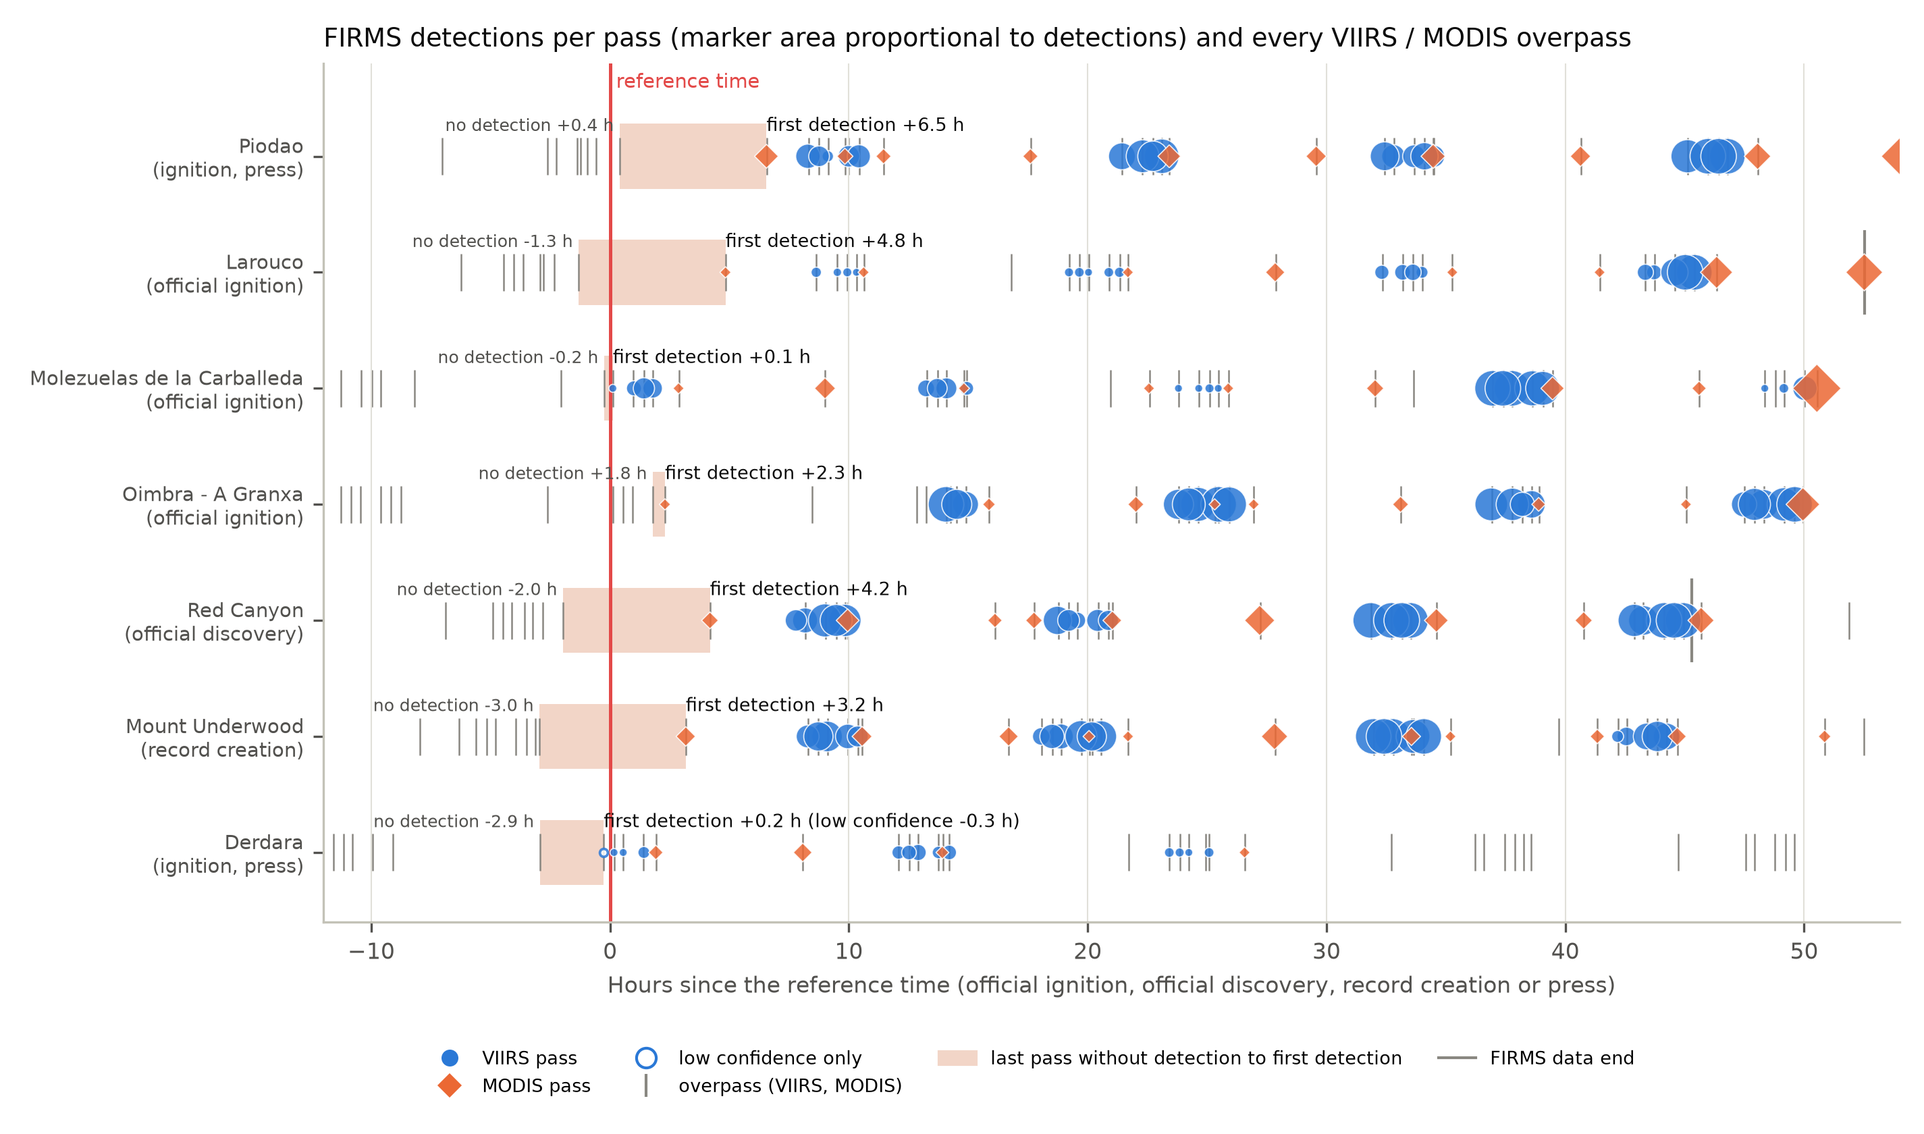
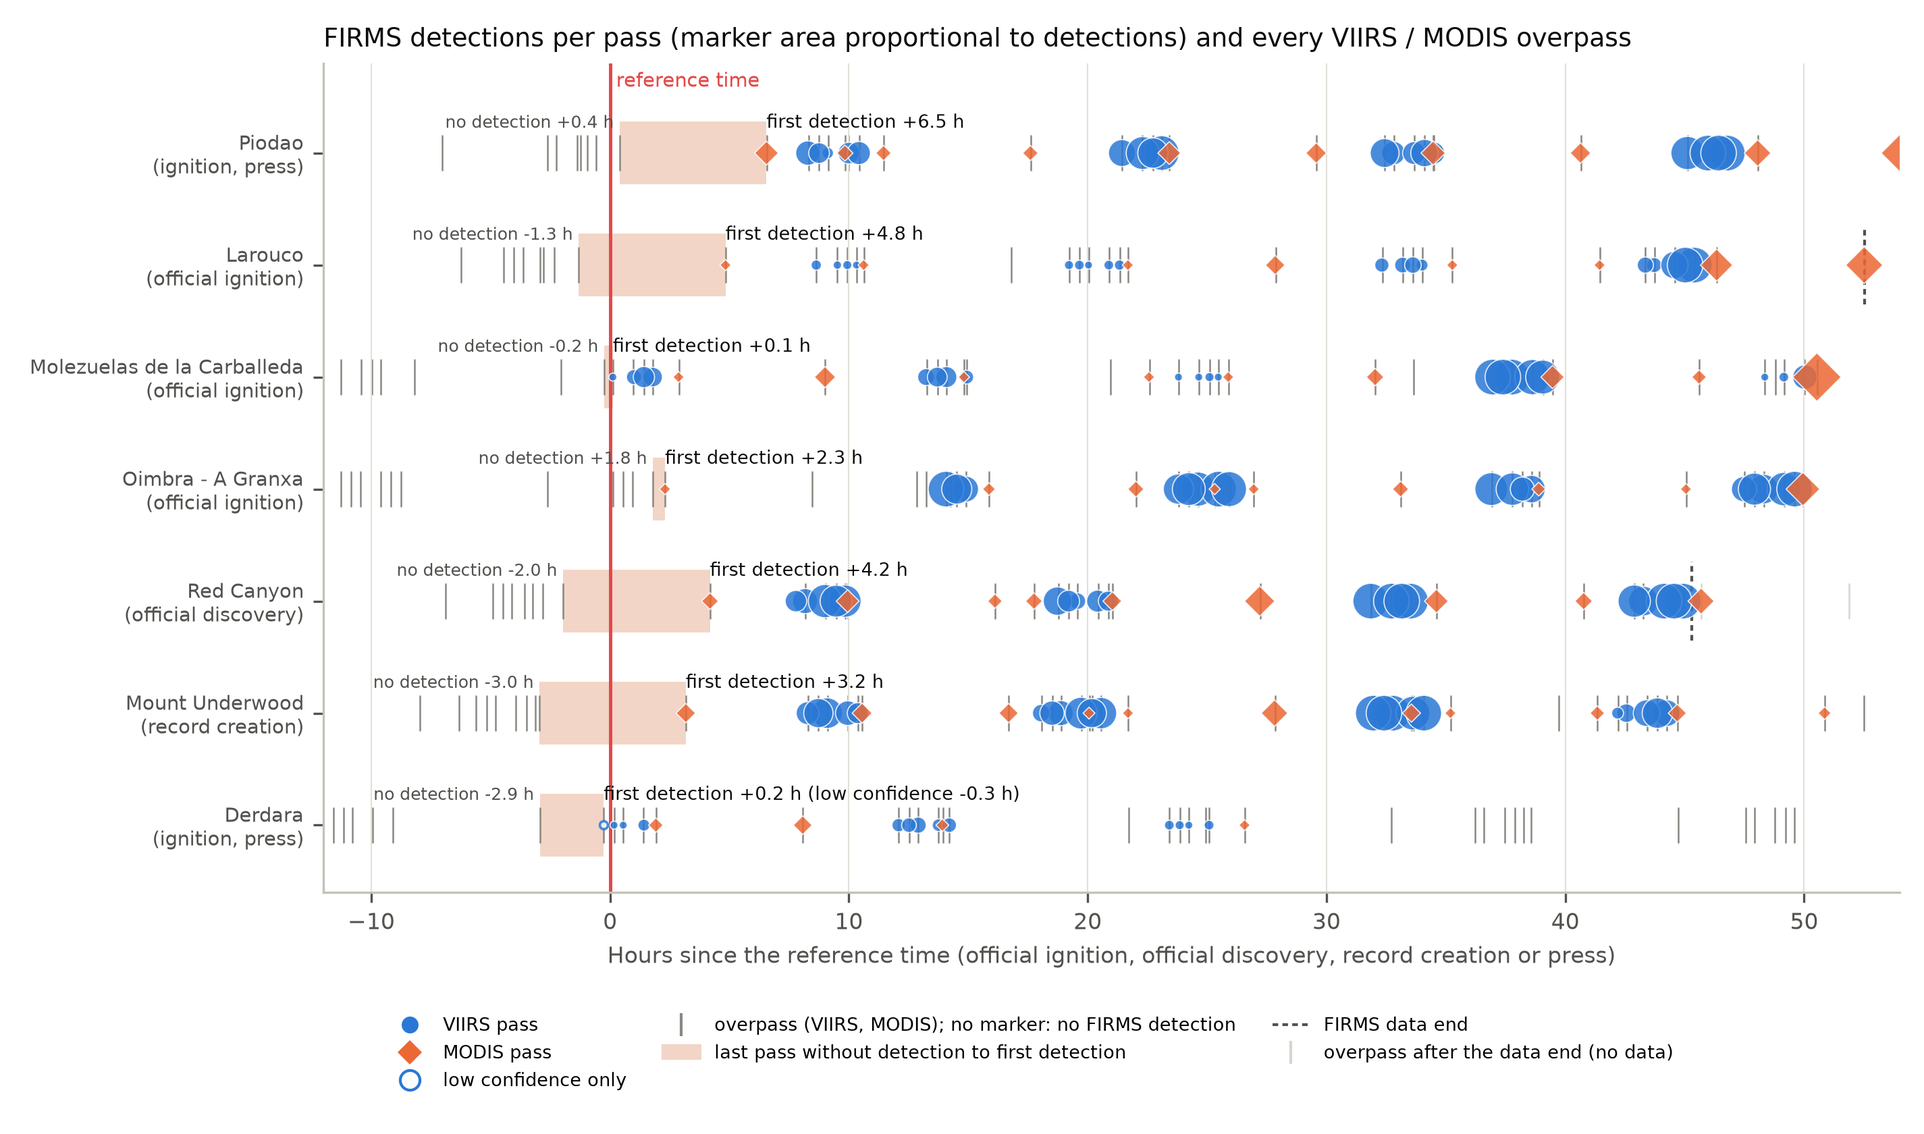
Explain what an empty overpass means in the event timelines and start the fire-mask check
- Timeline figure: draw the FIRMS data end as a dashed line with a matching legend entry, and fade the
  overpasses after it, since FIRMS has no data there.
- Caption: an overpass without a marker has no FIRMS detection, which means no fire, a fire below the
  detection limit, or a fire hidden by cloud or smoke.
- New paragraph on the two readings of an empty overpass (after and before the data end) and on the
  Level-2 fire mask (VNP14IMG, VJ114IMG, VJ214IMG, MOD14, MYD14) that separates cloud, clear ground and
  missing data; the shaded band should start at the last clear empty overpass.
- Catalogue result: 56 of the 57 empty overpasses before the first detections have a fire and a
  geolocation granule; the Aqua pass 1.2 h before the Piodao reference lies outside the granule footprint,
  so the nominal MODIS half-swath slightly overstates coverage at the edge.
- Document the NASA Earthdata account created on 6 Nov 2026 to download the Level-2 granules; reading
  the masks is pending.
- Next steps: read the fire masks and move the shaded bands to the last clear overpass.

diff --git a/code/Event Selection/scripts/05_fire_mask_check.py b/code/Event Selection/scripts/05_fire_mask_check.py
@@ -1,0 +1,207 @@
+"""Step 2.5: why did the overpasses before each first detection see nothing?
+
+FIRMS lists fire pixels only. An overpass without a FIRMS detection can mean no fire, a fire below the detection
+limit, cloud or smoke, or missing data. The Level-2 fire products behind FIRMS keep a per-pixel fire mask that
+separates these cases. This step reads it at the event location for every empty overpass shown in the timeline
+figure (from PRE_H hours before the reference time up to the first detection).
+
+Products (fire: LP DAAC, geolocation: LAADS):  fire mask   geolocation
+    Suomi-NPP  VIIRS                      VNP14IMG           VNP03IMG
+    NOAA-20    VIIRS                      VJ114IMG           VJ103IMG
+    NOAA-21    VIIRS                      VJ214IMG           VJ203IMG
+    Terra      MODIS                      MOD14              MOD03
+    Aqua       MODIS                      MYD14              MYD03
+
+Fire mask classes (VIIRS and MODIS use the same numbering): 0 to 2 not processed / missing, 3 water, 4 cloud,
+5 clear land without fire, 6 unknown, 7 to 9 fire (low, nominal, high confidence). VIIRS also uses 1 for bow-tie
+deletion and 2 for sun glint.
+
+Stages:
+    catalog   (no login) CMR search: does each empty pass have a fire and a geolocation granule over the event?
+              Output: processed/fire_mask_granules.csv
+    read      (NASA Earthdata login) download each granule pair to raw/l2_fire_mask/, take every pixel within
+              RADIUS_KM of the event point, count its fire-mask classes and classify the pass; geolocation files are
+              deleted after reading (VIIRS: about 160 MB each). Output: processed/fire_mask_check.csv
+
+Earthdata account: the Level-2 granules are only served to logged-in users (FIRMS and the CMR catalogue are not).
+An account was created on 2026-11-06 for this step only. Credentials are read from EARTHDATA_USERNAME and
+EARTHDATA_PASSWORD in the .env file of the master-thesis venv and are never printed or written elsewhere.
+
+Usage: python scripts/05_fire_mask_check.py catalog|read
+"""
+import sys
+from pathlib import Path
+
+import numpy as np
+import pandas as pd
+import requests
+
+# ---- parameters ----
+ES_DIR = Path(__file__).resolve().parents[1]
+PROC = ES_DIR / "processed"
+PRE_H = 12                      # same left edge as the timeline figure
+GRANULE_SLACK_MIN = 8           # pass_utc is the closest approach; granules are 5 (MODIS) or 6 (VIIRS) min long
+CMR = "https://cmr.earthdata.nasa.gov/search/granules.json"
+RAW = ES_DIR / "raw" / "l2_fire_mask"
+ENV_FILE = ES_DIR.parents[2] / "master-thesis" / ".env"
+RADIUS_KM = 2.0                 # event points are official or press ignition points, accurate to about 1 to 2 km
+EARTH_RADIUS_KM = 6371.0
+CLASS = {0: "missing", 1: "missing", 2: "missing", 3: "water", 4: "cloud", 5: "clear", 6: "unknown",
+         7: "fire", 8: "fire", 9: "fire"}   # VIIRS 1 = bow-tie deletion, 2 = sun glint: not observed, counted as missing
+# (fire short name, fire version at LP DAAC, geolocation short name, geolocation version at LAADS)
+PRODUCTS = {"Suomi-NPP": ("VNP14IMG", "002", "VNP03IMG", "2"), "NOAA-20": ("VJ114IMG", "002", "VJ103IMG", "2.1"),
+            "NOAA-21": ("VJ214IMG", "002", "VJ203IMG", "2.1"), "Terra": ("MOD14", "061", "MOD03", "6.1"),
+            "Aqua": ("MYD14", "061", "MYD03", "6.1")}
+
+
+def empty_passes():
+    o = pd.read_csv(PROC / "candidate_overpasses.csv", parse_dates=["pass_utc"])
+    first = pd.read_csv(PROC / "detection_bracket.csv").set_index("event")["first_detection_any_confidence_h"]
+    o = o[(o.hours_from_reference >= -PRE_H) & (o.hours_from_reference < o.event.map(first))]
+    gt = pd.read_csv(ES_DIR / "notes" / "candidates_ground_truth.csv").set_index("candidate_id")
+    return o.join(gt[["lat", "lon"]], on="event").reset_index(drop=True)
+
+
+def cmr_granules(short_name, version, t, lat, lon):
+    dt = pd.Timedelta(minutes=GRANULE_SLACK_MIN)
+    r = requests.get(CMR, params={"short_name": short_name, "version": version, "point": f"{lon},{lat}",
+                                  "temporal": f"{(t - dt):%Y-%m-%dT%H:%M:%SZ},{(t + dt):%Y-%m-%dT%H:%M:%SZ}",
+                                  "page_size": 10}, timeout=60)
+    r.raise_for_status()
+    out = []
+    for e in r.json()["feed"]["entry"]:
+        url = next((l["href"] for l in e.get("links", []) if l.get("rel", "").endswith("/data#")
+                    and l["href"].startswith("https")), None)
+        out.append(dict(id=e["producer_granule_id"] if "producer_granule_id" in e else e["title"],
+                        start=e["time_start"], size_mb=float(e.get("granule_size", "nan")), url=url))
+    return out
+
+
+def catalog():
+    rows = []
+    for p in empty_passes().itertuples():
+        fire, fver, geo, gver = PRODUCTS[p.platform]
+        f, g = (cmr_granules(fire, fver, p.pass_utc, p.lat, p.lon), cmr_granules(geo, gver, p.pass_utc, p.lat, p.lon))
+        rows.append(dict(event=p.event, platform=p.platform, pass_utc=p.pass_utc, hours_from_reference=p.hours_from_reference,
+                         off_track_km=p.off_track_km, lat=p.lat, lon=p.lon,
+                         n_fire_granules=len(f), n_geo_granules=len(g),
+                         fire_granule=";".join(x["id"] for x in f), geo_granule=";".join(x["id"] for x in g),
+                         fire_url=";".join(x["url"] or "" for x in f), geo_url=";".join(x["url"] or "" for x in g),
+                         download_mb=round(sum(x["size_mb"] for x in f + g), 1)))
+        print(f"{p.event:16s} {p.platform:9s} {p.hours_from_reference:+6.2f} h  fire {len(f)}  geo {len(g)}")
+    out = pd.DataFrame(rows)
+    out.to_csv(PROC / "fire_mask_granules.csv", index=False, date_format="%Y-%m-%dT%H:%M:%SZ")
+    print(f"\n{len(out)} empty passes; without fire granule: {(out.n_fire_granules == 0).sum()}; "
+          f"total download {out.download_mb.sum() / 1024:.1f} GB")
+
+
+# ---------------- read stage ----------------
+def earthdata_session():
+    env = {}
+    for line in open(ENV_FILE):
+        if "=" in line and not line.lstrip().startswith("#"):
+            k, v = line.rstrip("\n").split("=", 1)
+            env[k.strip()] = v.strip().strip('"').strip("'")
+
+    class Session(requests.Session):   # keep the login only for the redirects to and from the Earthdata login host
+        def rebuild_auth(self, prep, resp):
+            new, old = requests.utils.urlparse(prep.url).hostname, requests.utils.urlparse(resp.request.url).hostname
+            if "Authorization" in prep.headers and new != old and "urs.earthdata.nasa.gov" not in (new, old):
+                del prep.headers["Authorization"]
+
+    s = Session()
+    s.auth = (env["EARTHDATA_USERNAME"], env["EARTHDATA_PASSWORD"])
+    return s
+
+
+def download(session, url):
+    out = RAW / url.split("/")[-1]
+    if not out.exists():
+        r = session.get(url, stream=True, timeout=600)
+        if r.status_code == 401:
+            sys.exit("Earthdata login refused (HTTP 401): check the account and the .env credentials")
+        r.raise_for_status()
+        tmp = out.with_suffix(".part")
+        with open(tmp, "wb") as f:
+            for chunk in r.iter_content(1 << 20):
+                f.write(chunk)
+        tmp.rename(out)
+    return out
+
+
+def read_arrays(fire_file, geo_file):
+    """Fire mask, latitude, longitude on the same pixel grid."""
+    if fire_file.suffix == ".nc":                                   # VIIRS, netCDF4
+        import h5py
+        with h5py.File(fire_file) as f:
+            mask = f["fire mask"][:]
+        with h5py.File(geo_file) as g:
+            lat, lon = g["geolocation_data/latitude"][:], g["geolocation_data/longitude"][:]
+    else:                                                           # MODIS, HDF4
+        from pyhdf.SD import SD
+        mask = SD(str(fire_file)).select("fire mask")[:]
+        g = SD(str(geo_file))
+        lat, lon = g.select("Latitude")[:], g.select("Longitude")[:]
+    if mask.shape != lat.shape:
+        raise ValueError(f"grid mismatch {fire_file.name}: mask {mask.shape}, geolocation {lat.shape}")
+    return mask, lat, lon
+
+
+def classify(counts):
+    if counts.get("fire", 0):
+        return "fire in mask"           # fire pixel that FIRMS did not list (or outside its 15 min match)
+    if counts.get("cloud", 0):
+        return "cloud" if counts.get("clear", 0) == 0 else "partly cloud"
+    if counts.get("clear", 0):
+        return "clear, no fire"
+    return "missing" if counts.get("missing", 0) else "other"
+
+
+def read():
+    RAW.mkdir(parents=True, exist_ok=True)
+    session = earthdata_session()
+    g = pd.read_csv(PROC / "fire_mask_granules.csv")
+    rows = []
+    for p in g.itertuples():
+        base = dict(event=p.event, platform=p.platform, pass_utc=p.pass_utc,
+                    hours_from_reference=p.hours_from_reference, off_track_km=p.off_track_km)
+        if p.n_fire_granules == 0:
+            rows.append(base | dict(result="not in granule footprint"))
+            continue
+        geo_urls = str(p.geo_url).split(";")
+        best = None
+        for fu in p.fire_url.split(";"):
+            key = fu.split("/")[-1].split(".")[1:3]                 # A2025225, 1430: same granule time
+            gu = next((u for u in geo_urls if u.split("/")[-1].split(".")[1:3] == key), None)
+            if gu is None:
+                continue
+            ff, gf = download(session, fu), download(session, gu)
+            mask, lat, lon = read_arrays(ff, gf)
+            gf.unlink()                                             # geolocation is large and re-downloadable
+            ok = np.isfinite(lat) & (np.abs(lat) <= 90)
+            p1, p2 = np.radians(p.lat), np.radians(np.where(ok, lat, 0))
+            d = EARTH_RADIUS_KM * np.arccos(np.clip(np.sin(p1) * np.sin(p2) + np.cos(p1) * np.cos(p2)
+                                                    * np.cos(np.radians(np.where(ok, lon, 0) - p.lon)), -1, 1))
+            d[~ok] = np.inf
+            near = d <= RADIUS_KM
+            if not near.any() or (best is not None and d.min() >= best["nearest_pixel_km"]):
+                continue
+            classes = pd.Series([CLASS.get(int(v), "other") for v in mask[near]]).value_counts().to_dict()
+            best = dict(granule=ff.name, nearest_pixel_km=round(float(d.min()), 2), n_pixels=int(near.sum()),
+                        **{f"n_{c}": classes.get(c, 0) for c in ["clear", "cloud", "fire", "missing", "water", "unknown"]},
+                        result=classify(classes))
+        rows.append(base | (best or dict(result="no pixel within radius")))
+        print(f"{p.event:16s} {p.platform:9s} {p.hours_from_reference:+6.2f} h  {rows[-1]['result']}")
+    out = pd.DataFrame(rows)
+    out.to_csv(PROC / "fire_mask_check.csv", index=False)
+    print("\n" + out.groupby(["event", "result"]).size().to_string())
+
+
+if __name__ == "__main__":
+    stage = sys.argv[1] if len(sys.argv) > 1 else "catalog"
+    if stage == "catalog":
+        catalog()
+    elif stage == "read":
+        read()
+    else:
+        sys.exit(__doc__)

diff --git a/Month3.tex b/Month3.tex
@@ -472,7 +472,7 @@ Asia & none eligible & & & \\
 \begin{figure}[h]
 \centering
 \includegraphics[width=\linewidth]{figures/event_selection_03_ignition_to_first_detection.png}
-\caption{FIRMS detections per satellite pass and every VIIRS and MODIS overpass of each selected and alternative event, against its reference time. Grey ticks: overpasses (event inside the swath), computed from the orbits; hollow marker: low-confidence detection only. The shaded band runs from the last overpass without a detection to the first detection: the fire became detectable inside it.}
+\caption{FIRMS detections per satellite pass and every VIIRS and MODIS overpass of each selected and alternative event, against its reference time. Grey ticks: overpasses (event inside the swath), computed from the orbits; a tick without a marker has no FIRMS detection, which means no fire, a fire below the detection limit, or a fire hidden by cloud or smoke. Light ticks after the dashed line fall after the end of the FIRMS data and carry no information. Hollow marker: low-confidence detection only. The shaded band runs from the last overpass without a detection to the first detection: the fire became detectable inside it.}
 \label{fig:es_timeline}
 \end{figure}
 
@@ -484,6 +484,15 @@ Asia & none eligible & & & \\
     \item A missing detection does not prove that there was no fire: clouds, smoke and the large pixels at the swath edge can hide a small fire. The last empty overpasses before the reference of Molezuelas ($-$0.2\,h) and Pi\'od\~ao ($-$0.6\,h) were both about 1,400\,km off track, at the swath edge.
     \item For Pi\'od\~ao, the matched FIRMS complex also contains the earlier Aldeia das Dez fire, 7 to 10\,km away, detected from 62 to 24\,h before the reference. It is a different fire and is not counted.
 \end{itemize}
+
+\textbf{What an empty overpass means.} An overpass without a FIRMS detection has two different readings:
+\begin{itemize}[leftmargin=1.2cm]
+    \item \emph{After the FIRMS data end} (15 Aug, 21:26\,UTC; dashed line in Figure~\ref{fig:es_timeline}) an overpass carries no information, because the downloaded record stops there. This affects Red Canyon from +45\,h and Larouco from +53\,h, and these overpasses are drawn faded.
+    \item \emph{Before the data end} it only means that FIRMS has no fire pixel within 15\,min of the pass. The cause can be no fire, a fire below the detection limit, cloud or smoke, a large pixel at the swath edge, sun glint, or missing data. FIRMS cannot tell these apart, because it keeps only the fire pixels.
+\end{itemize}
+The Level-2 fire products behind FIRMS (VNP14IMG, VJ114IMG, VJ214IMG for VIIRS; MOD14, MYD14 for MODIS) keep a per-pixel fire mask with the classes \emph{not processed}, \emph{water}, \emph{cloud}, \emph{clear land without fire} and \emph{fire}~\cite{schroeder2014viirs, giglio2016modis}. Reading this mask at the event location separates the cases. This matters for the shaded band: it assumes that the last empty overpass saw clear ground. If that pass was cloudy, the fire may have become detectable earlier, and the band should start at the last \emph{clear} empty overpass.
+
+A catalogue search (NASA CMR) for the 57 empty overpasses between 12\,h before the reference and the first detection gives a fire granule and a geolocation granule for 56 of them (7\,GB in total). The missing one is the Aqua pass 1.2\,h before the Pi\'od\~ao reference: it is 1158\,km off track, inside the nominal 1165\,km MODIS half-swath used for the overpasses, but outside the footprint of the delivered granules. The fire was therefore not observed on that pass. The nominal half-swath slightly overstates coverage at the edge, so the coverage check should use the granule footprints. Unlike FIRMS and the catalogue, the Level-2 granules are only served to registered users, so a NASA Earthdata account was created for this check (6 Nov 2026). The masks are read within 2\,km of each event point, since the reference locations are official or press ignition points. The download is pending the activation of the account login.
 
 \begin{figure}[h]
 \centering
@@ -509,6 +518,7 @@ Asia & none eligible & & & \\
 \begin{itemize}[leftmargin=1.2cm]
     \item \actionitem{Extract the first SEVIRI detection of Derdara and Pi\'od\~ao (their T0 reference) from the LSA SAF data already downloaded.}
     \item \actionitem{Add a GOES reader for Red Canyon; make the EFFIS step optional outside Europe.}
+    \item \actionitem{Read the Level-2 fire mask (cloud, clear, missing) at each event for the 56 empty overpasses before the first detection, and start the shaded band of Figure~\ref{fig:es_timeline} at the last clear one.}
 \end{itemize}
 
 % =========================================================

diff --git a/code/Event Selection/scripts/04_figures.py b/code/Event Selection/scripts/04_figures.py
@@ -39,6 +39,7 @@ DECISION_GROUP = {"selected": "selected", "alternative": "alternative", "not sel
                   "no ground truth": "not selected", "not examined": "not selected", "excluded": "excluded",
                   "to check": "not selected"}
 PASS_COLOR, FAIL_COLOR = "#2a78d6", "#a3a29c"
+AFTER_END_COLOR = "#d6d5ce"   # overpass ticks after the FIRMS data end
 TIMELINE_EVENTS = ["piodao", "larouco", "molezuelas", "oimbra", "red_canyon", "mount_underwood", "derdara"]
 SENSOR_MARKER = {"VIIRS": "o", "MODIS": "D"}
 REFERENCE_LABEL = {"official (regional government)": "official ignition", "press (approximate)": "ignition, press",
@@ -155,7 +156,11 @@ def fig03_timelines():
         o = ovp[ovp.event == cid].copy()
         o["seen"] = [((p.platform == r.platform) & ((p.t - r.pass_utc).abs() <= pd.Timedelta(minutes=PASS_MATCH_MIN))).any()
                      for r in o.itertuples()]
-        ax.vlines(o.hours_from_reference, y - 0.16, y + 0.16, color=MUTED, lw=0.6, zorder=1)
+        end_h = (firms_end - ign).total_seconds() / 3600
+        # passes after the FIRMS data end cannot show a detection: drawn faded, they carry no information
+        after = o.hours_from_reference > end_h
+        ax.vlines(o.hours_from_reference[~after], y - 0.16, y + 0.16, color=MUTED, lw=0.6, zorder=1)
+        ax.vlines(o.hours_from_reference[after], y - 0.16, y + 0.16, color=AFTER_END_COLOR, lw=0.6, zorder=1)
         # the event starts after the last pass without detection before the reference time; detections before
         # it belong to an earlier fire merged into the same 1 km cluster (Piodao: a fire 7 to 10 km away, -62 to -24 h)
         empty = o.loc[~o.seen, "hours_from_reference"]
@@ -177,7 +182,7 @@ def fig03_timelines():
         ax.annotate(label, (first_any, y), xytext=(0, 9), textcoords="offset points", fontsize=6.5, color=INK, ha="left")
         ax.annotate(f"no detection {last_clear:+.1f} h", (last_clear, y), xytext=(-2, 9),
                     textcoords="offset points", fontsize=6, color=INK_2, ha="right")
-        ax.plot([(firms_end - ign).total_seconds() / 3600] * 2, [y - 0.35, y + 0.35], color=MUTED, lw=1)
+        ax.plot([end_h] * 2, [y - 0.35, y + 0.35], color=INK_2, lw=1, ls=(0, (2, 1.5)), zorder=2)
         rows.append(dict(event=cid, last_pass_without_detection_h=round(last_clear, 2),
                          first_detection_any_confidence_h=round(first_any, 2), first_kept_detection_h=round(first_kept, 2)))
     pd.DataFrame(rows).to_csv(PROC / "detection_bracket.csv", index=False)
@@ -193,10 +198,13 @@ def fig03_timelines():
                for (s, m), c in zip(SENSOR_MARKER.items(), [PASS_COLOR, "#eb6834"])]
     handles += [Line2D([], [], marker="o", ls="", markerfacecolor="white", markeredgecolor=PASS_COLOR, markersize=7,
                        label="low confidence only"),
-                Line2D([], [], marker="|", ls="", color=MUTED, markersize=8, label="overpass (VIIRS, MODIS)"),
+                Line2D([], [], marker="|", ls="", color=MUTED, markersize=8,
+                       label="overpass (VIIRS, MODIS); no marker: no FIRMS detection"),
                 Patch(color="#f2d5c7", label="last pass without detection to first detection"),
-                Line2D([], [], color=MUTED, lw=1, label="FIRMS data end")]
-    ax.legend(handles=handles, loc="upper center", bbox_to_anchor=(0.45, -0.13), ncol=4, fontsize=6.5, frameon=False)
+                Line2D([], [], color=INK_2, lw=1, ls=(0, (2, 1.5)), label="FIRMS data end"),
+                Line2D([], [], marker="|", ls="", color=AFTER_END_COLOR, markersize=8,
+                       label="overpass after the data end (no data)")]
+    ax.legend(handles=handles, loc="upper center", bbox_to_anchor=(0.45, -0.13), ncol=3, fontsize=6.5, frameon=False)
     ax.set_title("FIRMS detections per pass (marker area proportional to detections) and every VIIRS / MODIS overpass",
                  loc="left", fontsize=9)
     fig.tight_layout()
